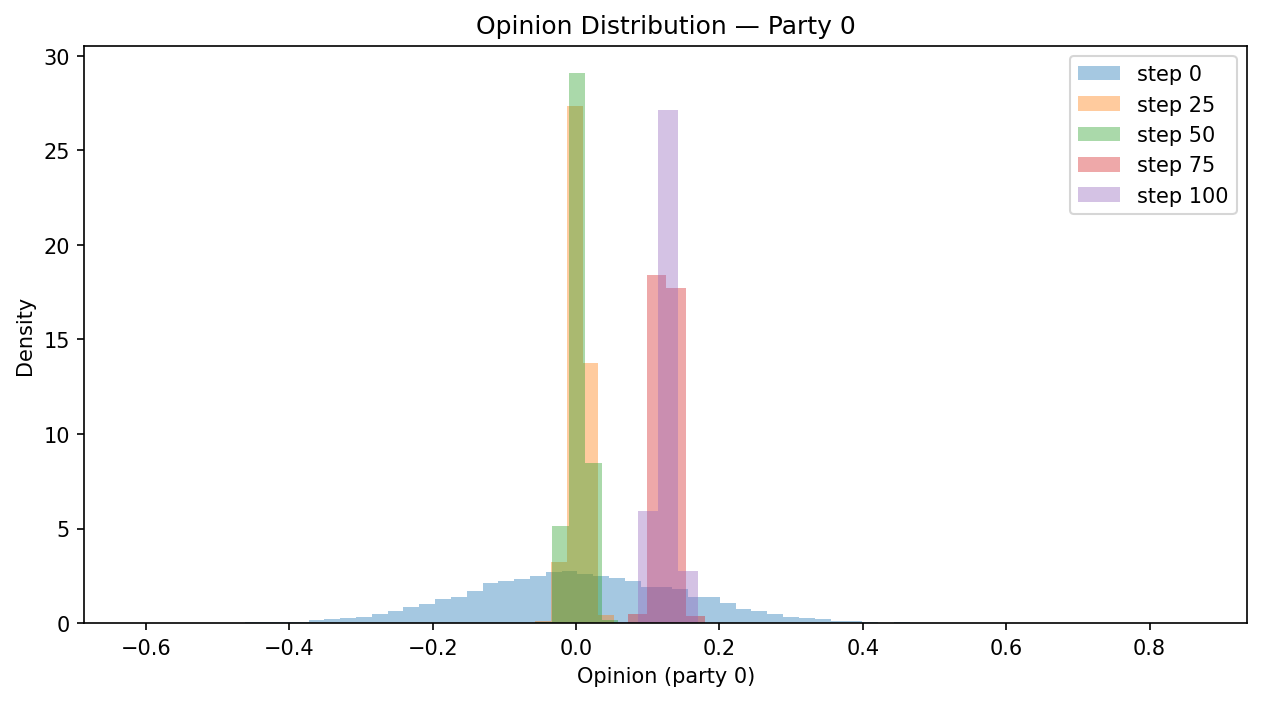
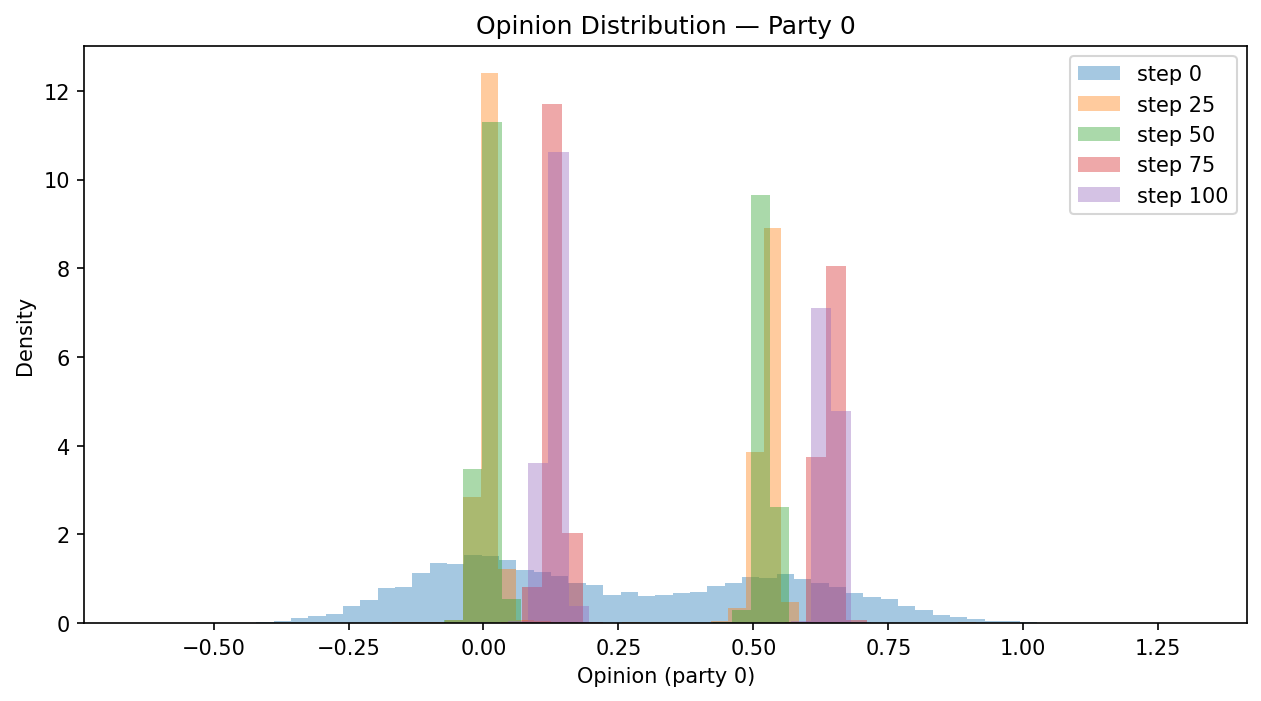
Add city_opinion_biases to give clusters distinct party identities
Without per-city biases every city was drawn from the same N(0, 0.15²I)
distribution, producing identical red/blue/green mixes in every cluster
with no visible partisan geography.

Changes:
- config.py: add `city_opinion_biases: list[tuple[int,float]] | None = None`
  Each entry (party_index, offset) is added to the initial opinion score
  for that party for all nodes in the corresponding city.
- simulation.py: apply biases in __init__ after initialize_opinions(),
  using the already-computed city_ids array.  No change to dynamics.
- regenerate_basic_plots.py: base_config now passes
    city_opinion_biases = [(0,0.6),(1,0.6),(2,0.6),(0,0.4),(1,0.4)]
  giving cities 0-2 strong Conservative/Progressive/Green leans and
  cities 3-4 moderate secondary leans.

Effect on plots:
- spatial_before_after: each cluster is now visually distinct (red/blue/green
  blobs), with boundaries sharpening from step 0 → 100 as within-city peer
  influence converges nodes toward the city consensus.
- confidence_comparison: ε=0.40 produces solid monolithic clusters (strong
  within-city convergence); ε=0.15 shows the initial lean but less
  convergence (tight threshold limits within-city interaction too).
- vote_share_annotated: lines start at unequal shares reflecting city biases
  (Conservative leads with 2 biased cities), curve smoothly between events.
- opinion_trajectories: two clear streams — Conservative-city nodes vs rest.
[…]

diff --git a/config.py b/config.py
@@ -56,6 +56,10 @@ class SimConfig:
     # --- Opinion initialisation ---
     opinion_mean: float = 0.0
     opinion_std: float = 0.15  # 0.3 put initial L2 distances (~0.73) far above the
+    # Per-city bias: list of (party_index, offset) tuples, one per city.
+    # Adds `offset` to every node in that city's opinion score for `party_index`,
+    # giving each city a distinct initial lean.  None → uniform initialisation.
+    city_opinion_biases: list[tuple[int, float]] | None = None
     # default confidence_threshold (0.4), cutting ~85% of edges immediately and
     # making peer influence negligible between events.  0.15 gives distances ~0.37,
     # keeping ~70% of edges active so convergence dynamics are clearly visible.

diff --git a/examples/regenerate_basic_plots.py b/examples/regenerate_basic_plots.py
@@ -54,6 +54,16 @@ def base_config(**kwargs):
         n_steps=100,
         history_interval=1,
         random_seed=42,
+        # Give each city a distinct partisan lean so spatial clusters are
+        # visually identifiable.  Cities 0–2 have strong leans; 3–4 have
+        # moderate secondary leans.
+        city_opinion_biases=[
+            (0, 0.6),   # city 0 (30 %) → Conservative
+            (1, 0.6),   # city 1 (25 %) → Progressive
+            (2, 0.6),   # city 2 (20 %) → Green
+            (0, 0.4),   # city 3 (15 %) → Conservative (secondary)
+            (1, 0.4),   # city 4 (10 %) → Progressive  (secondary)
+        ],
     )
     defaults.update(kwargs)
     return SimConfig(**defaults)

diff --git a/opsim/simulation.py b/opsim/simulation.py
@@ -36,6 +36,9 @@ class Simulation:
         # Initialise node state
         self.attributes: NDArray = initialize_attributes(config, self.rng)
         self.opinions: NDArray = initialize_opinions(config, self.rng)
+        if config.city_opinion_biases is not None:
+            for city_idx, (party_idx, bias) in enumerate(config.city_opinion_biases):
+                self.opinions[self.city_ids == city_idx, party_idx] += bias
 
         # Events
         self.event_schedule = event_schedule or EventSchedule()
